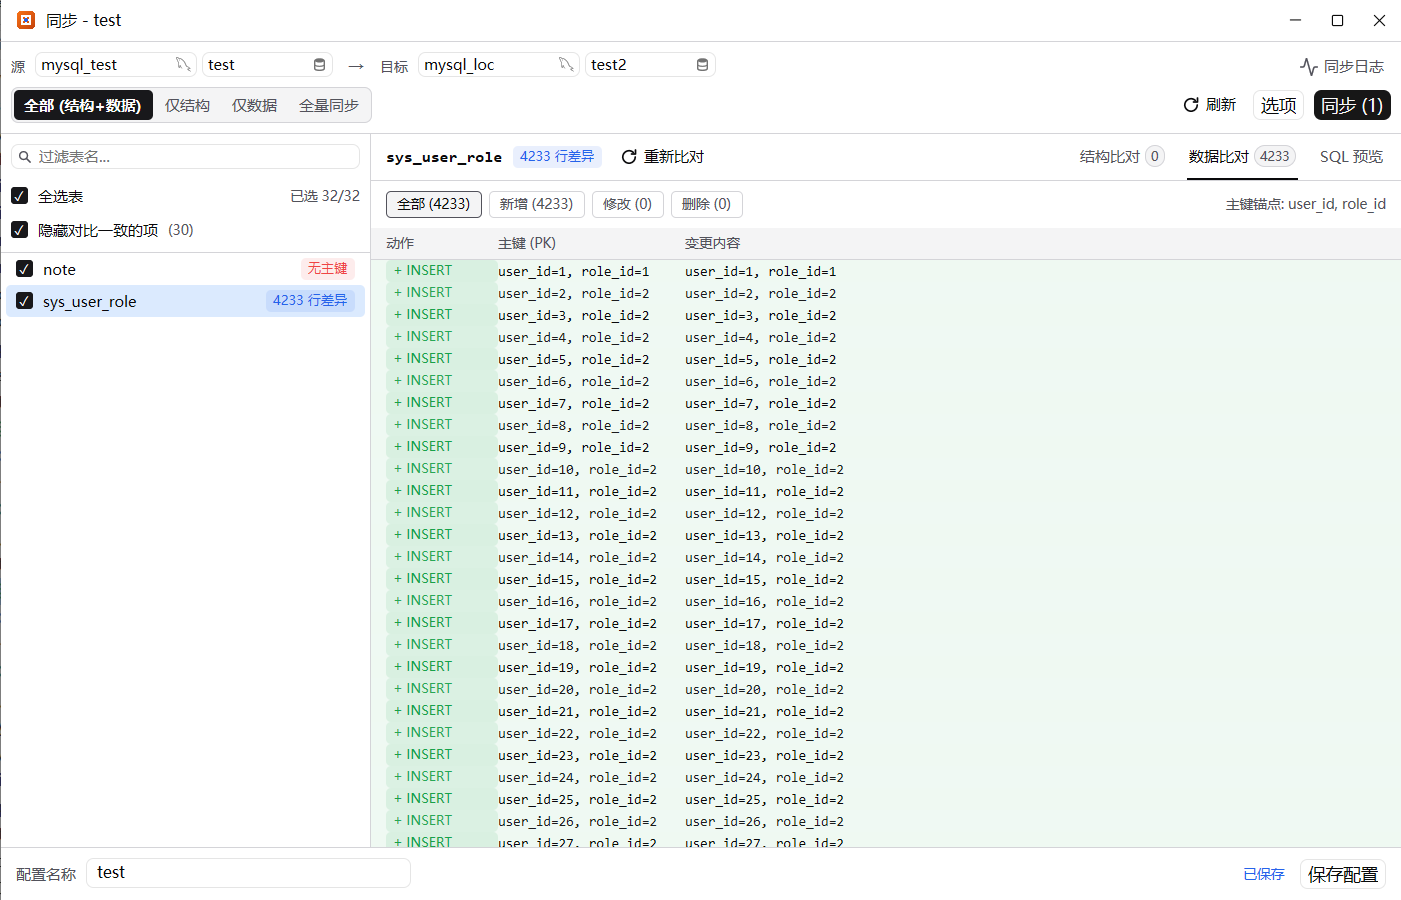
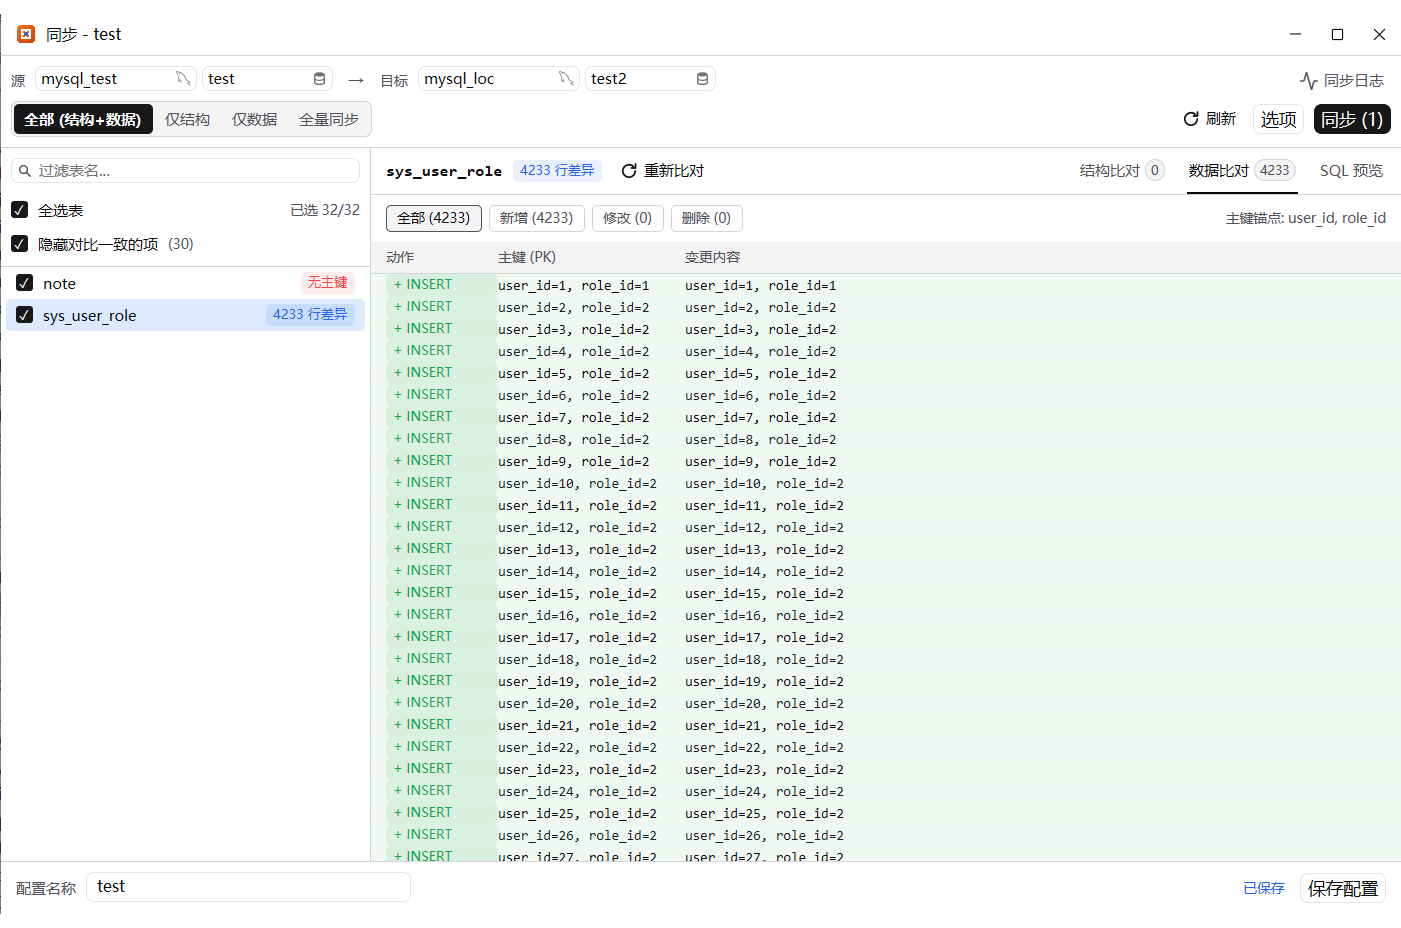
docs: align screenshot heights and captions

diff --git a/README.md b/README.md
@@ -19,13 +19,13 @@ Click a screenshot to view it full size.
       <a href="https://github.com/yisier/rustgrid/raw/main/docs/img/img1_en.png">
         <img src="docs/img/img1_en.png" width="400" alt="Connection tree and object list">
       </a>
-      <p align="center"><b>1.</b> Connection tree &amp; object list</p>
+      <p align="center"><b>1.</b> Connection tree &amp; object list<br>— groups, search, environment colours</p>
     </td>
     <td width="50%">
       <a href="https://github.com/yisier/rustgrid/raw/main/docs/img/img2_en.png">
         <img src="docs/img/img2_en.png" width="400" alt="Table data grid and row form">
       </a>
-      <p align="center"><b>2.</b> Table data grid &amp; row form — in-place editing, JSON preview</p>
+      <p align="center"><b>2.</b> Table data grid &amp; row form<br>— in-place editing, JSON preview</p>
     </td>
   </tr>
   <tr>
@@ -33,13 +33,13 @@ Click a screenshot to view it full size.
       <a href="https://github.com/yisier/rustgrid/raw/main/docs/img/img3_en.png">
         <img src="docs/img/img3_en.png" width="400" alt="Backup and restore">
       </a>
-      <p align="center"><b>3.</b> Backup &amp; restore — object selection and a live log</p>
+      <p align="center"><b>3.</b> Backup &amp; restore<br>— object selection and a live log</p>
     </td>
     <td width="50%">
       <a href="https://github.com/yisier/rustgrid/raw/main/docs/img/img4_en.png">
         <img src="docs/img/img4_en.png" width="400" alt="Database sync">
       </a>
-      <p align="center"><b>4.</b> Sync — compare databases and apply structure or data</p>
+      <p align="center"><b>4.</b> Sync<br>— compare databases and apply structure or data</p>
     </td>
   </tr>
 </table>
